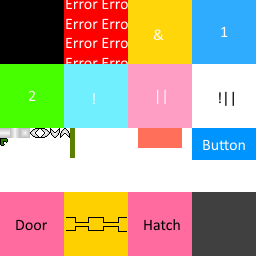
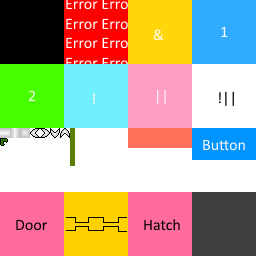
Fixed button delay. Issue with two sets of tiles.

Changed region(s): [[0.6875, 0.5, 0.75, 0.5938], [0.5, 0.5, 0.5625, 0.5938], [0.25, 0.625, 0.3125, 0.6562]]

diff --git a/core/src/com/hurryup/views/TestLevel.java b/core/src/com/hurryup/views/TestLevel.java
@@ -31,10 +31,9 @@ public class TestLevel extends MasterLevel{
     BitmapFont font = new BitmapFont();
 
     public TestLevel(String mapName) {
-        //super();
+        super();
         font.setColor(Color.RED);
         XMLReader.readMap(mapName,this);
-        loadTiles();
         buildConnections();
     }
 

diff --git a/core/src/com/hurryup/objects/tiles/Button.java b/core/src/com/hurryup/objects/tiles/Button.java
@@ -48,7 +48,6 @@ public class Button extends LogicTile {
     public void update(long deltaTime) {
         super.update(deltaTime);
         if((state == 3) && height > 16){
-            System.out.println("lol");
             height -= 0.5;
         } else if(state == 0 && height < 32){
             height += 0.5;

diff --git a/core/src/com/hurryup/objects/entities/Player.java b/core/src/com/hurryup/objects/entities/Player.java
@@ -34,8 +34,8 @@ public class Player extends MasterClass {
 
     float playerSpeed = 4;
     float jumpSpeed = 50;
-    int maxJumpSpeed = 18;
-    int maxVerticalSpeed = 3;
+    int maxJumpSpeed = 19;
+    int maxVerticalSpeed = 5;
     int gravity = 1;
     int velocityX = 0;
     int velocityY = 0;
